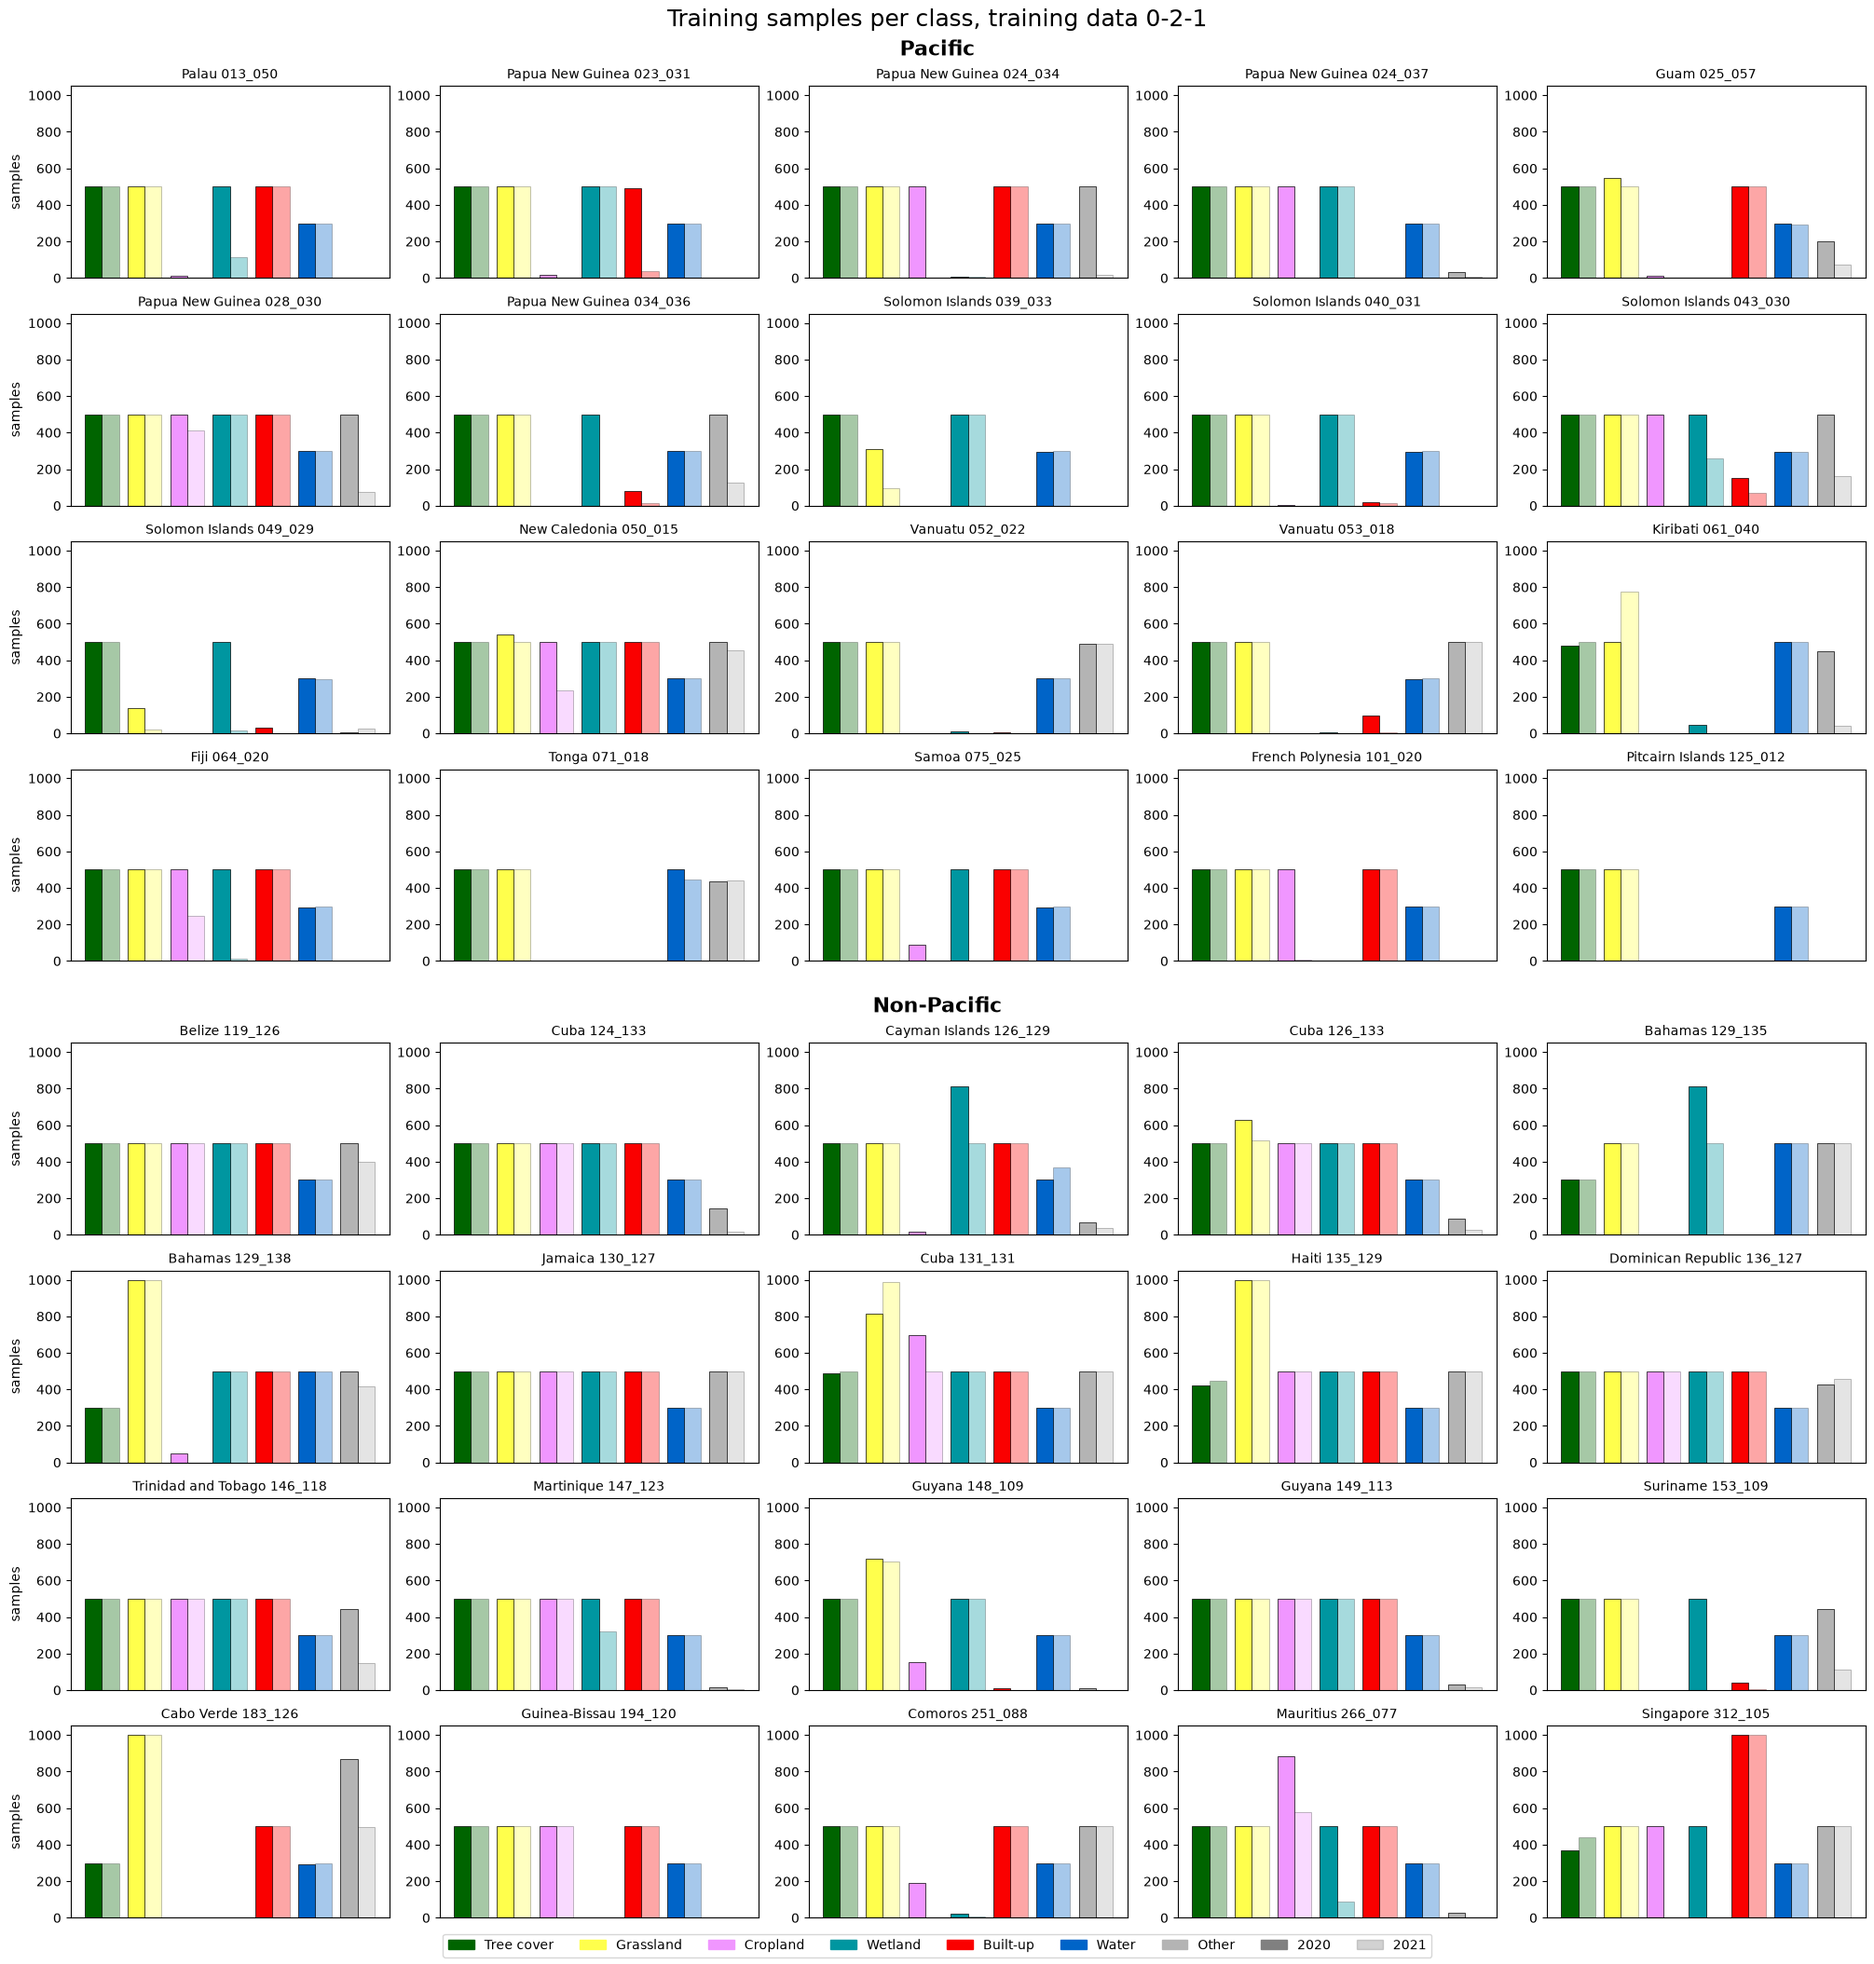
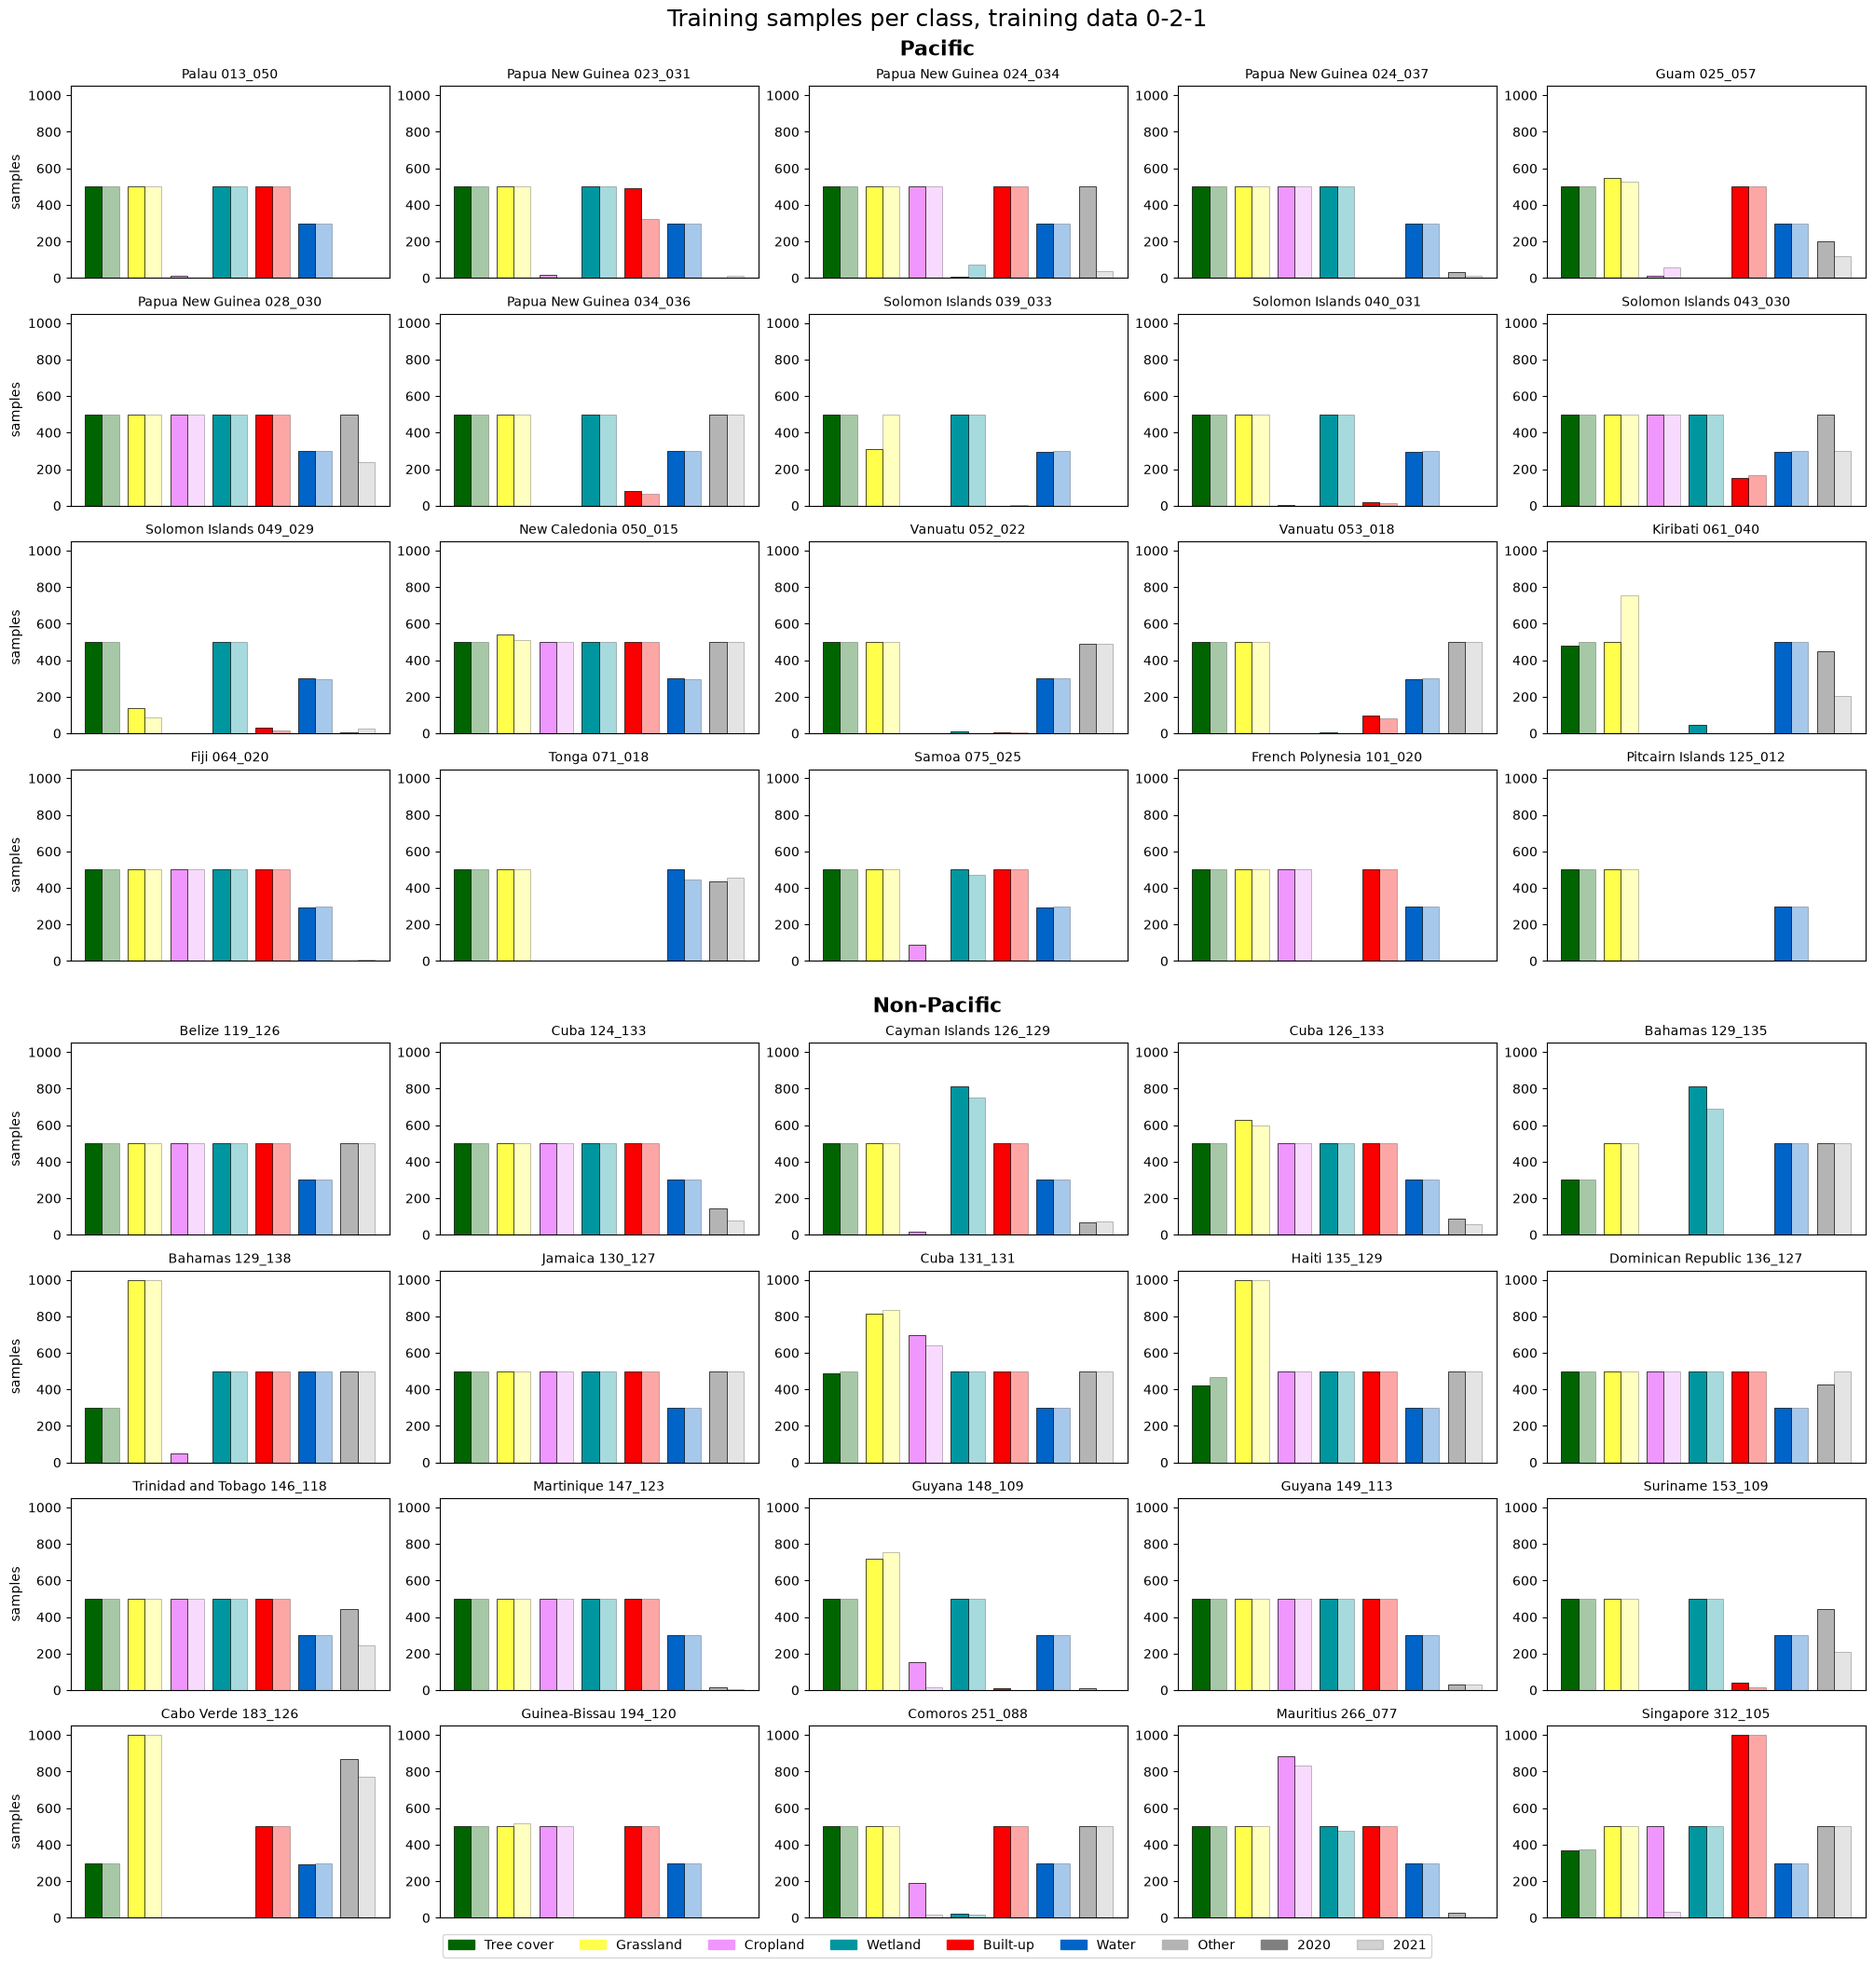
Update non-2021 training data to use 2020 agreement as a point to agree with

diff --git a/ldn/training_data.py b/ldn/training_data.py
@@ -174,6 +174,10 @@ CLASS_SAMPLE_N_RANGE = {
     7: (HARD_MIN, HARD_MAX),  # Other
 }
 
+# The only year with all 3 LULC products. Its agreement is a third vote in other years, where the 2 products disagree
+# on the hard classes (e.g. IO maps mangroves as trees, and WorldCover rarely maps Pacific cropland).
+ANCHOR_YEAR = "2020"
+
 
 def _get_pc_client():
     """Return a cached Planetary Computer STAC client."""
@@ -377,7 +381,8 @@ def find_agreement(products: list[xr.DataArray]) -> xr.DataArray:
     With 3 products at most one class can have 2 votes, so the first agreeing pair gives the class.
 
     Args:
-        products: 2 or 3 standardised class DataArrays on the same grid, with 0 or LULC_NODATA for nodata.
+        products: 2 or 3 standardised class DataArrays on the same grid, with 0 or LULC_NODATA for nodata. One can
+            be an earlier find_agreement result, used as a vote.
 
     Returns:
         DataArray of agreed class values, LULC_NODATA where fewer than 2 products agree or a pixel has a
@@ -657,8 +662,8 @@ def make_training_data(
     """Generate training data for a single tile and upload to S3 as CSV.
 
     End-to-end pipeline: loads GeoMAD (from any bucket), loads the 2 or 3 LULC products with data for the year,
-    finds agreement, samples, extracts band values, filters outliers, and
-    writes results locally and to S3 (to any bucket, can be different from the GeoMAD bucket).
+    finds agreement (with the ANCHOR_YEAR agreement as a vote in other years), samples, extracts band values, filters
+    outliers, and writes results locally and to S3 (to any bucket, can be different from the GeoMAD bucket).
     We do not support writing training data to Source.Coop. We can if needed.
 
     Args:
@@ -725,9 +730,19 @@ def make_training_data(
     geobox = geomad_dem_indices.odc.geobox
 
     logger.info(f"Loading {len(products)} LULC products: {', '.join(p['product'] for p in products)}")
-    agreed = find_agreement(
-        [load_and_prepare(geobox, country_wgs84_buffered, p, year)[p["output_band"]] for p in products]
-    )
+    layers = [load_and_prepare(geobox, country_wgs84_buffered, p, year)[p["output_band"]] for p in products]
+    if year != ANCHOR_YEAR:
+        # A pixel keeps its ANCHOR_YEAR class where either of this year's products confirms it.
+        logger.info(f"Adding the {ANCHOR_YEAR} agreement as a third vote")
+        layers.append(
+            find_agreement(
+                [
+                    load_and_prepare(geobox, country_wgs84_buffered, p, ANCHOR_YEAR)[p["output_band"]]
+                    for p in lulc_products_for_year(ANCHOR_YEAR)
+                ]
+            )
+        )
+    agreed = find_agreement(layers)
 
     logger.info("Generating samples")
     samples = generate_samples(agreed, geomad_dem_indices, n=n, seed=seed)
@@ -838,14 +853,16 @@ def generate_training_data(
     )
 
     # Zero padded indexes
-    file_prefix = f"{data_dir}/{data_version}/{region}/{tile_id_x:03d}/{tile_id_y:03d}/{year}/samples"
+    tile_prefix = f"{data_dir}/{data_version}/{region}/{tile_id_x:03d}/{tile_id_y:03d}"
+    file_prefix = f"{tile_prefix}/{year}/samples"
     # Training data shouldn't be written to source.coop, but supported just in case.
     _is_bucket_source_coop = is_bucket_source_coop(output_bucket)
     if _is_bucket_source_coop:
         raise NotImplementedError("Writing training data to Source.Coop is not supported.")
         # file_prefix = f"{SOURCE_COOP_PREFIX_LULC}/{file_prefix}"
     output_owner = owner_for_region(region, product_owner_output) if single_region_output else None
-    output_key = f"{dataset_prefix(output_owner, sensor, LULC_DATASET_ID)}/{file_prefix}.csv"
+    output_prefix = dataset_prefix(output_owner, sensor, LULC_DATASET_ID)
+    output_key = f"{output_prefix}/{file_prefix}.csv"
 
     if not overwrite:
         logger.info(f"Overwrite is False, checking if object exists at s3://{output_bucket}/{output_key}")
@@ -857,6 +874,11 @@ def generate_training_data(
             logger.info("Item does not exist, proceeding with processing.")
     else:
         logger.info("Overwrite is True, proceeding with processing.")
+
+    # Other years use the ANCHOR_YEAR agreement as a vote, so only make them for tiles that have ANCHOR_YEAR samples.
+    anchor_key = f"{output_prefix}/{tile_prefix}/{ANCHOR_YEAR}/samples.csv"
+    if year != ANCHOR_YEAR and not object_exists(output_bucket, anchor_key):
+        raise LdnError(f"No {ANCHOR_YEAR} samples at s3://{output_bucket}/{anchor_key}. Generate {ANCHOR_YEAR} first.")
 
     make_training_data(
         tile_id,

diff --git a/ldn/tests/test_training_data.py b/ldn/tests/test_training_data.py
@@ -126,6 +126,12 @@ class TestFindAgreement:
         # The first and third agree on class 1
         assert result.values[2, 2] == 1
 
+    def test_anchor_vote(self):
+        """The 2020 agreement keeps its class where one product confirms it, and loses where both products agree."""
+        wc, io, anchor = self._lulc(4), self._lulc(1), find_agreement([self._lulc(4), self._lulc(4)])
+        assert find_agreement([wc, io, anchor]).values[2, 2] == 4
+        assert find_agreement([self._lulc(2), self._lulc(2), anchor]).values[2, 2] == 2
+
     def test_two_products_agree(self):
         """With 2 products (e.g. CCI and IO for 2017-2019), both must agree."""
         assert find_agreement([self._lulc(3), self._lulc(3)]).values[2, 2] == 3

diff --git a/README.md b/README.md
@@ -194,6 +194,8 @@ The training data is here: https://dep-public-staging.s3.us-west-2.amazonaws.com
    | Impact Observatory (IO) | No quality filter is available |
 
 2. It keeps a pixel where at least 2 products agree on its class (both of 2 products, or 2 of 3). Nodata does not count as agreement. Then a 3x3 minimum filter keeps a pixel only if all of its neighbourhood agrees.
+
+   2020 is the only year with all 3 products. In other years the 2 products often disagree on the hard classes. For example, IO maps mangroves as tree cover, and ESA WorldCover rarely maps Pacific cropland. So in other years the 2020 agreement map is a third vote, for all classes. If the year's 2 products agree, their class is used. If not, the pixel keeps its 2020 class where either product confirms it. The tile's 2020 samples must exist before other years can be made.
 3. It takes a stratified random sample from the agreement map, only where there is valid GeoMAD data. Each class gets a share of 2,100 points by area, clipped to a minimum and maximum for the class (`CLASS_SAMPLE_N_RANGE`): 300 to 500 for tree cover and water, and 500 to 1,000 for the other classes. A class with fewer pixels gives all of them. The easy classes are capped so they don't take most of the points, and the hard classes (cropland, wetland, other) get more.
 4. It gets the model features (see [Model features](#model-features)) at each sample point.
 5. It removes the samples that have NaN feature values. The code also has a K-Means outlier filter for each class, which removes the samples furthest from the class centroid. This filter is disabled until an ablation study shows if it makes the model better.
